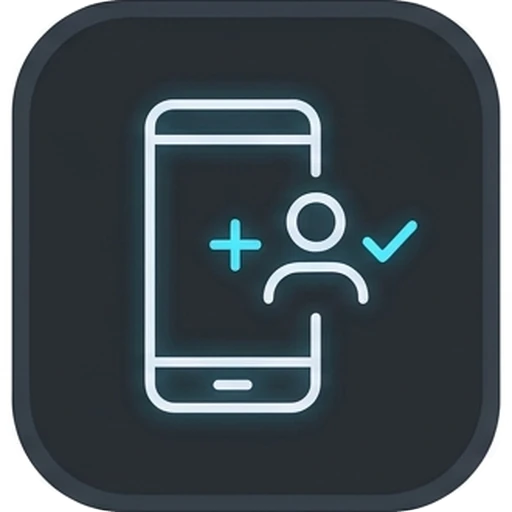
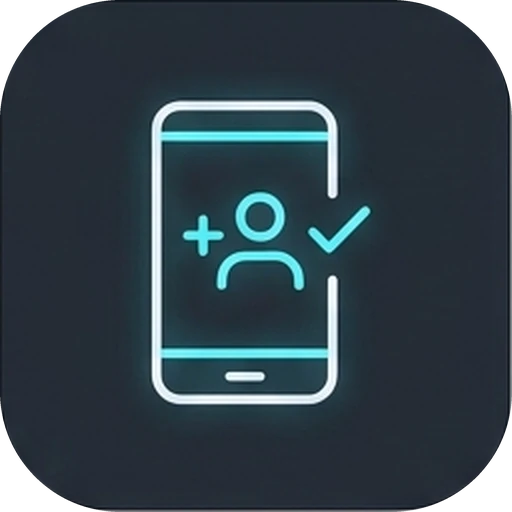
How it works earns its space, and says whose link is in the post
Three sparse steps became four fuller ones. The old copy never mentioned
the affiliate link at all, so the mechanic the whole offer rests on was
missing: 03 now says every post carries the creator's own link, and 04
gives the 40%, what it is worth per sale, and where the money lands.
Every step carries three lines so the row reads evenly.

Icons regenerated as one 2x2 sheet rather than adding a fourth alongside
the old three, which is how they stay a set.

diff --git a/nextpubli/features/landing-page/copy.ts b/nextpubli/features/landing-page/copy.ts
@@ -175,29 +175,50 @@ export const landingCopy = {
     title: "How it works",
     subtitle:
       "The deal is blunt. You bring the Instagram account. We bring the ultra realistic AI content and the monetization strategy. We do the heavy lifting, you provide the platform.",
-    // Three steps, two short lines each. A large share of this audience reads English
-    // as a second language on a phone, so no line may need a second pass.
+    // Four steps, three short lines each. Two steps carry the money on purpose: 03 says
+    // whose link is in the post, 04 says what the link pays and how it reaches you.
+    // Every line stays short because a large share of this audience reads English as a
+    // second language, on a phone.
     steps: [
       {
         number: "01",
         title: "Create your free account",
-        lines: ["Sign up in two minutes.", "You never create content again."],
+        lines: [
+          "Sign up in two minutes. No card, nothing to pay.",
+          "Tell us your niche so the videos suit your audience.",
+          "You never create content again.",
+        ],
         icon: "/steps/step1.webp",
       },
       {
         number: "02",
         title: "Connect your Instagram",
-        lines: ["Link any account: old, quiet, big or small.", "That is your only job."],
+        lines: [
+          "Link any account: old, quiet, big or small.",
+          "It takes one tap and you stay in control.",
+          "Disconnect any time. That is your only job.",
+        ],
         icon: "/steps/step2.webp",
       },
       {
         number: "03",
-        title: "We post and you earn",
+        title: "We post with your link",
         lines: [
-          "Ultra realistic AI videos twice a day.",
-          "Reach and money grow on autopilot.",
+          "Two ultra realistic AI videos a day, every day.",
+          "Every post carries your own affiliate link.",
+          "You approve the style, we do the heavy lifting.",
         ],
         icon: "/steps/step3.webp",
+      },
+      {
+        number: "04",
+        title: "You keep 40%",
+        lines: [
+          "Every sale through your link pays you 40%.",
+          "That is $43.20 on every $108 subscription.",
+          "Paid to the account you register.",
+        ],
+        icon: "/steps/step4.webp",
       },
     ],
   },

diff --git a/nextpubli/features/landing-page/howItWorks.test.ts b/nextpubli/features/landing-page/howItWorks.test.ts
@@ -1,0 +1,46 @@
+import { describe, expect, it } from "vitest";
+
+import { landingCopy } from "./copy";
+import { COMMISSION_PER_SALE_USD, SUBSCRIPTION_PRICE_USD } from "./earnings";
+
+const steps = landingCopy.howItWorks.steps;
+
+describe("How it works", () => {
+  it("runs four numbered steps, each with an icon", () => {
+    expect(steps).toHaveLength(4);
+    expect(steps.map((s) => s.number)).toEqual(["01", "02", "03", "04"]);
+    steps.forEach((step) => {
+      expect(step.icon).toMatch(/^\/steps\/step\d\.webp$/);
+      expect(step.title.length).toBeGreaterThan(0);
+    });
+  });
+
+  it("balances the steps: every one carries the same number of short lines", () => {
+    const counts = new Set(steps.map((s) => s.lines.length));
+    expect(counts.size).toBe(1);
+    expect([...counts][0]).toBe(3);
+    steps.forEach((step) =>
+      step.lines.forEach((line) => {
+        // Short enough to read once, on a phone, in a second language.
+        expect(line.length).toBeLessThanOrEqual(56);
+      }),
+    );
+  });
+
+  it("says whose link is in the post", () => {
+    const text = steps.flatMap((s) => s.lines).join(" ");
+    expect(text).toMatch(/your own affiliate link/i);
+  });
+
+  it("states the 40% and what it is worth per sale, matching the model", () => {
+    const text = steps.flatMap((s) => s.lines).join(" ");
+    expect(text).toContain("40%");
+    expect(text).toContain(`$${COMMISSION_PER_SALE_USD.toFixed(2)}`);
+    expect(text).toContain(`$${SUBSCRIPTION_PRICE_USD}`);
+  });
+
+  it("tells the visitor how the money reaches them", () => {
+    const text = steps.flatMap((s) => s.lines).join(" ");
+    expect(text).toMatch(/paid to the account/i);
+  });
+});

diff --git a/nextpubli/features/landing-page/LandingPage.tsx b/nextpubli/features/landing-page/LandingPage.tsx
@@ -297,12 +297,14 @@ function HowItWorks() {
           {landingCopy.howItWorks.subtitle}
         </p>
 
-        <div className="relative mt-12 grid gap-12 md:mt-20 md:grid-cols-3 md:gap-8 lg:gap-16">
-          {/* The thread sits at the icons' centre line and stops short of the outer
-              edges so it reads as a link between them, not a rule across the page. */}
+        <div className="relative mt-12 grid gap-12 sm:grid-cols-2 sm:gap-10 md:mt-20 md:grid-cols-4 md:gap-6 lg:gap-10">
+          {/* The thread runs from the centre of the first icon to the centre of the last,
+              so it reads as a link between them rather than a rule across the page. Four
+              columns means each is 25% wide, putting those centres at 12.5% in from each
+              edge. It is hidden below md, where the steps stack. */}
           <div
             aria-hidden
-            className="absolute top-11 right-[16%] left-[16%] hidden h-px md:block"
+            className="absolute top-11 right-[12.5%] left-[12.5%] hidden h-px md:block"
             style={{
               backgroundImage:
                 "linear-gradient(to right, transparent, #67E8F9 12%, #22D3EE 50%, #67E8F9 88%, transparent)",
